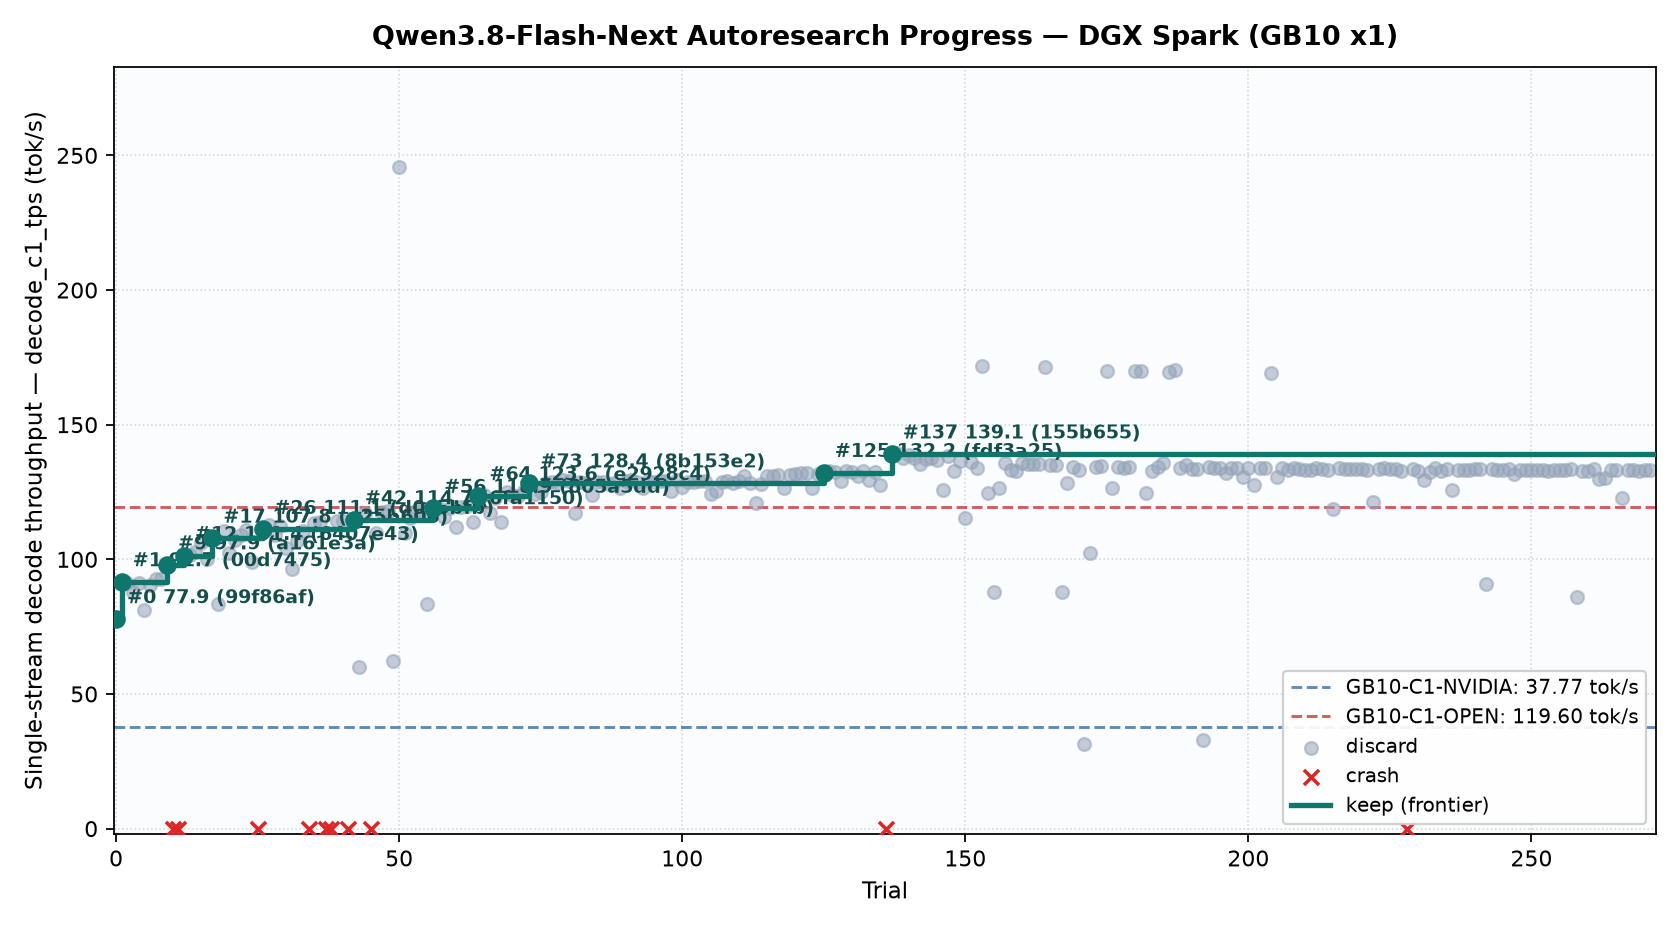
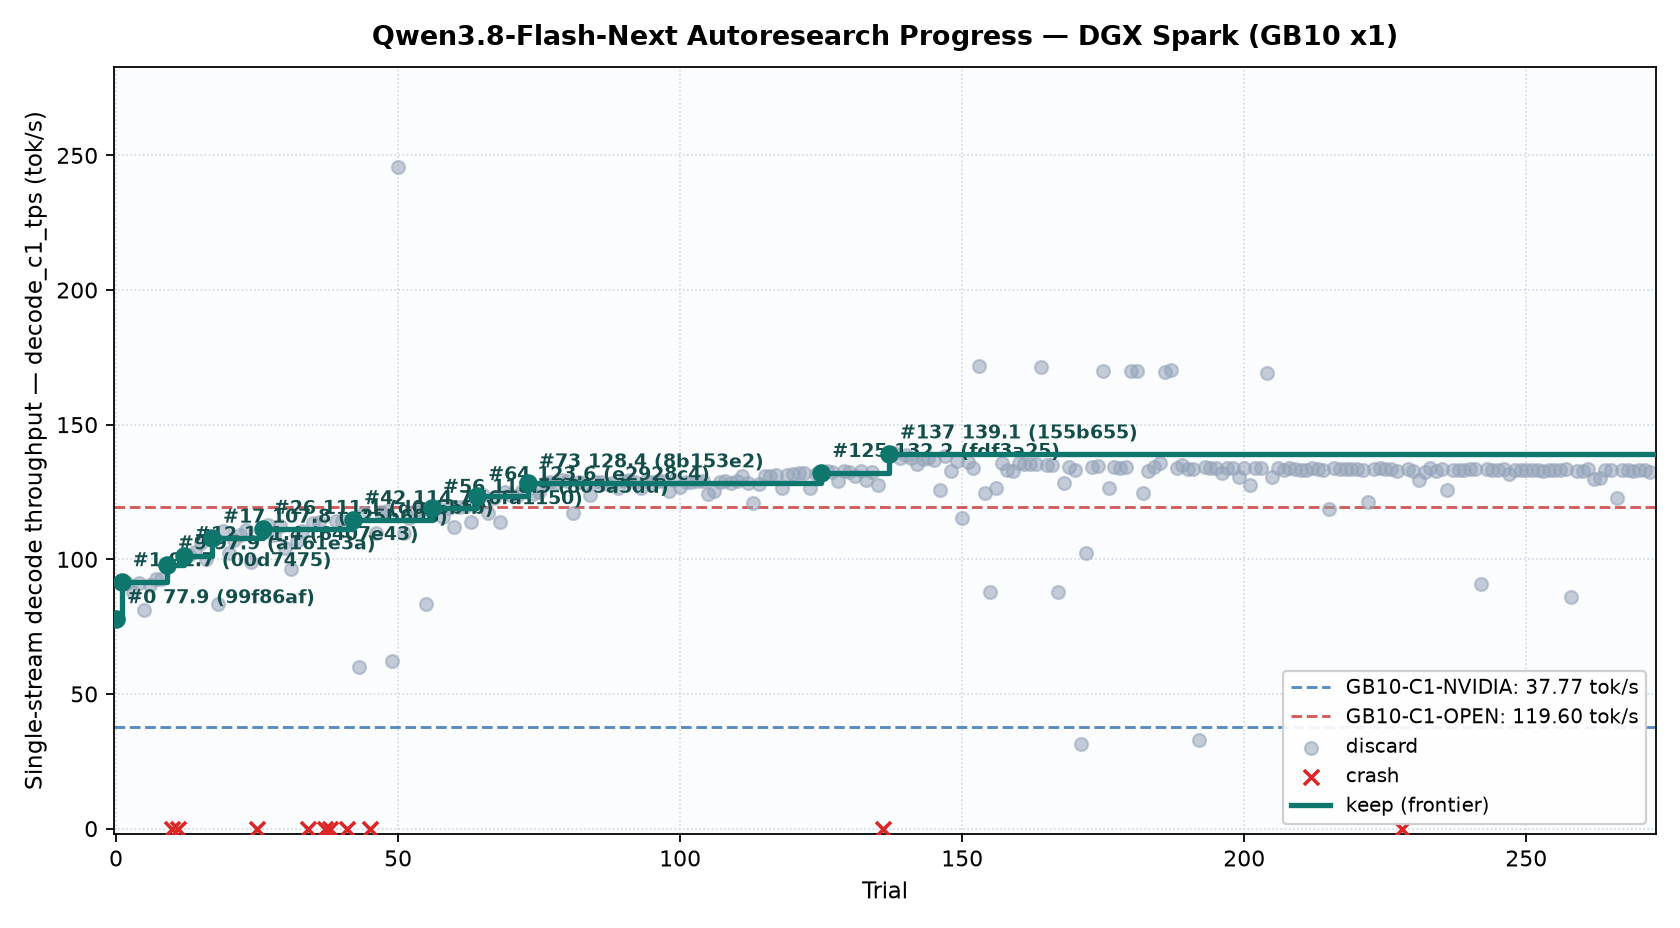
spark trial 272: discard

diff --git a/records/research-log.md b/records/research-log.md
@@ -305,3 +305,4 @@ Deprioritized: **3-bit expert weights** (Hibana +43% but GPQA -0.3, LCB -2.3; on
 | 2026-11-22 21:21 | 269 (new stack) | <https://github.com/ashhart/TensorFold/blob/v1.2.9/zig/src/families/flashnext/cuda_kv_lanes.zig> | Checked releases, commits and PRs across all six engines (heads 17323e0b/b34a52fc/bfc62e8e/8d60873d/2e637e6a/d474b74d in feed order). Trial 268 recorded 133.15 C1 (discard). | Use 128-token KV pages at the existing concurrency and context limits. This halves allocation granularity relative to the parent and tests the tradeoff between unused page space and page-table traffic. Reuse the unchanged engine binary. |
 | 2026-11-22 21:26 | 270 (new stack) | <https://github.com/ashhart/TensorFold/blob/v1.2.9/zig/kernels/cuda/flashnext_batch.cu> | Checked releases, commits and PRs across all six engines (heads 17323e0b/b34a52fc/bfc62e8e/8d60873d/4197f902/d474b74d in feed order). Trial 269 recorded 132.69 C1 (discard). | Use one warp per candidate to rank shortlists of at most 256 entries. Warp ballots count higher scores and ties with lower token IDs, replacing two histogram passes on small sets while preserving the target ordering. |
 | 2026-11-22 21:34 | 271 (new stack) | <https://github.com/ashhart/TensorFold/blob/v1.2.9/zig/kernels/cuda/flashnext_batch.cu> | Checked releases, commits and PRs across all six engines (heads 17323e0b/b34a52fc/bfc62e8e/8d60873d/4197f902/d474b74d in feed order). Trial 270 recorded 133.19 C1 (discard). | Issue L2 prefetches for the next BF16 vocabulary row assigned to each rescore warp while it computes the current dot product. Keep the candidate set, arithmetic and tie order fixed. Deferred the public Hibana fast result of 133.3 code tok/s (512 tokens, median of three) because its 3-bit weights and relaxed verification differ. [Source](https://forums.developer.nvidia.com/t/qwen3-8-flash-next-at-101-tok-s-on-one-dgx-spark-with-image-input-hibana-fast-docker-compose/389731). |
+| 2026-11-22 21:43 | 272 (new stack) | <https://arxiv.org/abs/2605.00342v2> | Checked releases, commits and PRs across all six engines (heads 17323e0b/b34a52fc/bfc62e8e/8d60873d/11b815e3/d474b74d in feed order). Trial 271 recorded 133.08 C1 (discard). | Trial 266 lost throughput when crossing eight verification rows cost an extra quarter step. Test the opposite direction by discounting that same marginal step by 25 percent in both CPU and GPU stopping rules. |
